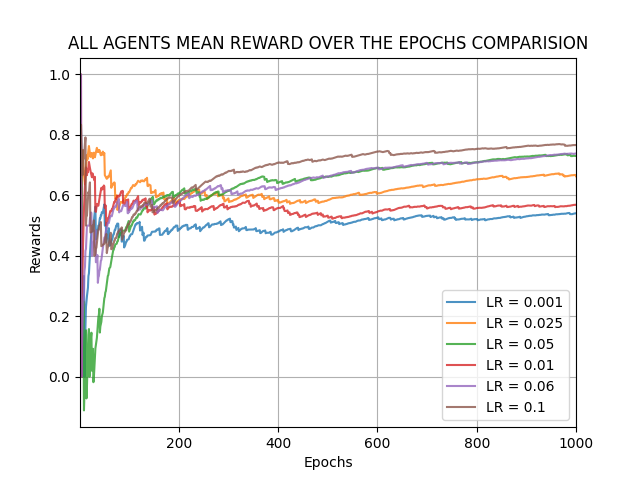
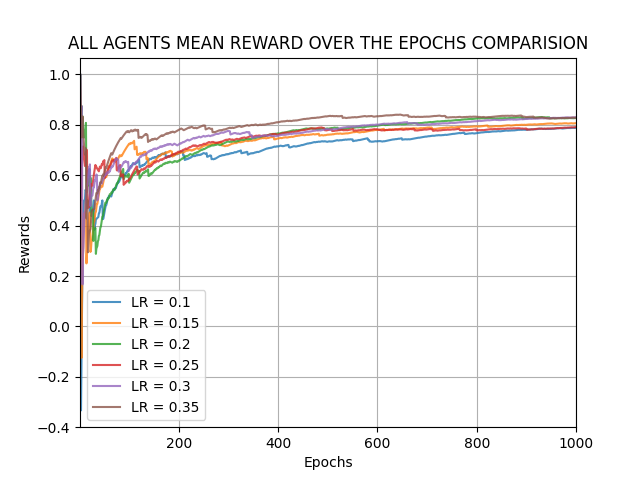
Changing the default lambda values

Changed region(s): [[0.0312, 0.2188, 0.9062, 0.875], [0.6875, 0.8438, 0.8438, 0.875], [0.0625, 0.875, 0.125, 0.9062]]

diff --git a/recycle-robot/main.py b/recycle-robot/main.py
@@ -12,12 +12,12 @@ def main():
     ALPHA = .6
     BETA = .4
     lambda_values = [
-        0.001,
-        0.025,
-        0.05,
-        0.01,
-        0.06,
-        0.1
+        0.1,
+        0.15,
+        0.2,
+        0.25,
+        0.3,
+        0.35
     ]
 
     agents: list[Robot] = []
